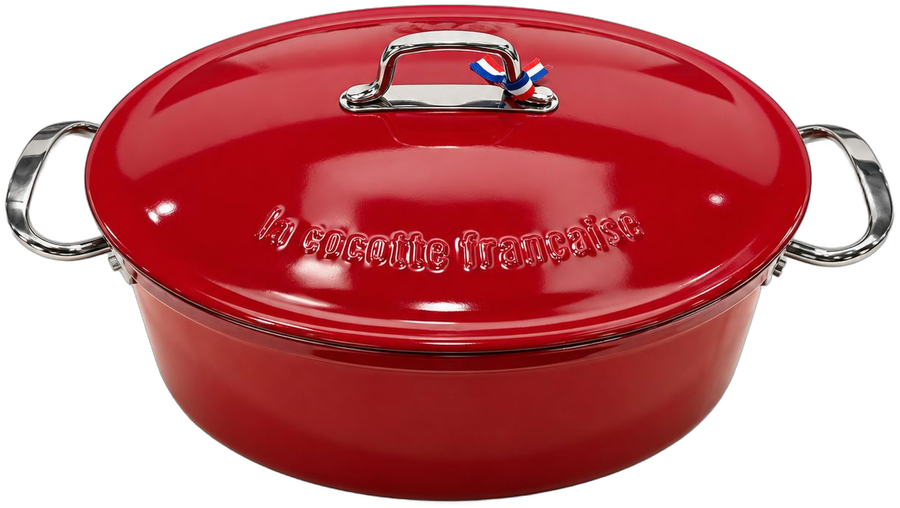
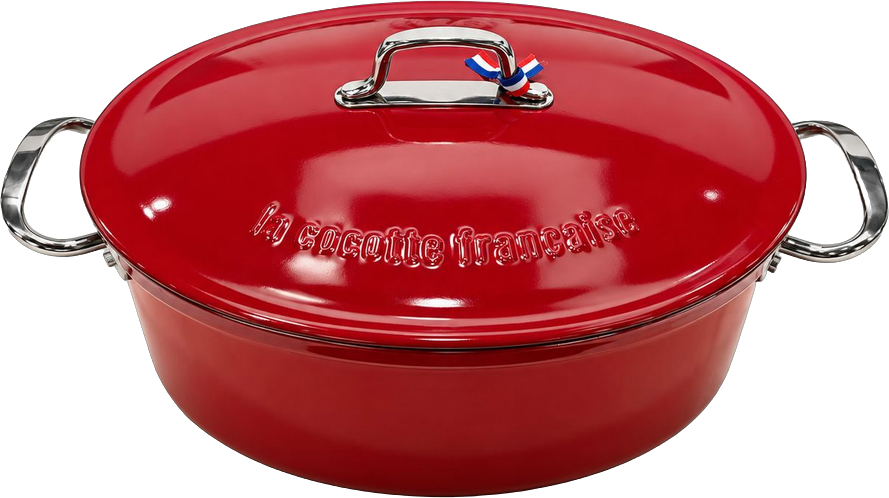
Cleaner range: no rules, crisp cut-outs, generic colour names
Claude-Session: https://claude.ai/code/session_01YQqL6kdtxuL8cs2ojwkRMY

diff --git a/index.html b/index.html
@@ -62,9 +62,8 @@
 
   /* range */
   .range{display:grid;grid-template-columns:repeat(3,minmax(0,1fr));gap:40px;margin-top:64px}
-  .range figure{border-top:1px solid var(--ink)}
   .range .ph{aspect-ratio:4/3;display:flex;align-items:center;justify-content:center;padding:28px 8px 12px}
-  .range img{max-width:100%;max-height:100%;object-fit:contain;filter:drop-shadow(0 18px 16px rgba(20,20,20,.16));transition:transform .5s}
+  .range img{max-width:100%;max-height:100%;object-fit:contain;transition:transform .5s}
   .range figure:hover img{transform:translateY(-4px)}
   .range figcaption{padding-top:12px;font-size:14px}
   .range figcaption b{display:block;font-weight:600}
@@ -188,7 +187,7 @@
       <figure><div class="ph"><img loading="lazy" src="sauteuse-bleue.png" alt="Enamelled cast-iron sauteuse 26 cm, blue"></div>
         <figcaption><b>Sauteuse Ø26 cm</b><span>Bleu</span></figcaption></figure>
       <figure><div class="ph"><img loading="lazy" src="cocotte-ovale-rouge.png" alt="Oval enamelled cast-iron cocotte 33 cm, cherry red"></div>
-        <figcaption><b>Cocotte ovale 33 cm</b><span>Rouge Cerise · 6,5 L</span></figcaption></figure>
+        <figcaption><b>Cocotte ovale 33 cm</b><span>Rouge · 6,5 L</span></figcaption></figure>
     </div>
   </div>
 </section>
@@ -222,7 +221,7 @@
           <div class="batch b-black">50</div><div class="batch b-black">50</div>
           <div class="batch b-white">50</div>
         </div>
-        <p class="legend">150 Vert Sauge (the house colour) · 100 Noir · 50 Blanc Neige</p>
+        <p class="legend">150 Vert · 100 Noir · 50 Blanc</p>
       </div>
     </div>
     </article>
@@ -279,7 +278,7 @@
           <div class="batch b-blue">50</div>
           <div class="batch b-white">50</div>
         </div>
-        <p class="legend">100 Rouge Cerise · 100 Noir · 50 Bleu · 50 Blanc Neige</p>
+        <p class="legend">100 Rouge · 100 Noir · 50 Bleu · 50 Blanc</p>
       </div>
     </div>
     </article>
